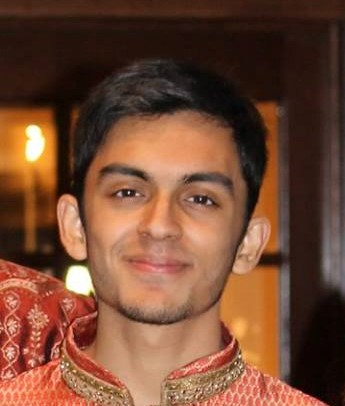
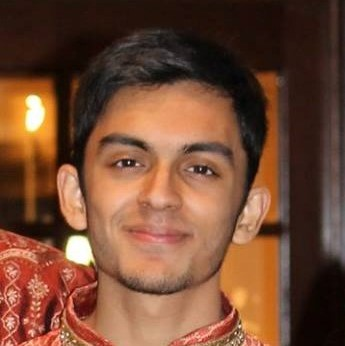
Unformatted images

diff --git a/src/components/Leadership.js b/src/components/Leadership.js
@@ -28,24 +28,35 @@ const Leadership = () => {
                 </Grid>
                 <Grid container direction="row">
                     <Grid item xs>
-                        
+                        <Portrait file="abhay.jpg"/>
                     </Grid>
                     <Grid item xs>
-                        
+                        <Portrait file="dane.png"/>
                     </Grid>
                     <Grid item xs>
-                        
+                        <Portrait file="dandi.png"/>
                     </Grid>   
                 </Grid>
                 <Grid container direction="row">
                     <Grid item xs>
-                        
+                        <Portrait file="eric.jpg"/>
                     </Grid>
                     <Grid item xs>
-                        
+                        <Portrait file="jinman.jpg"/>
                     </Grid>
                     <Grid item xs>
-                        
+                        <Portrait file="keshav.png"/>
+                    </Grid>   
+                </Grid>
+                <Grid container direction="row">
+                    <Grid item xs>
+                        <Portrait file="nick.jpg"/>
+                    </Grid>
+                    <Grid item xs>
+                        <Portrait file="rakshith.jpg"/>
+                    </Grid>
+                    <Grid item xs>
+                        <Portrait file="richard.jpg"/>
                     </Grid>   
                 </Grid>
             </Grid>

diff --git a/src/components/display/Portrait.js b/src/components/display/Portrait.js
@@ -4,9 +4,11 @@ const Portrait = ({file}) => {
 
     return (
         <>
-            <img src="">
-
-            </img>
+            <img
+                src={`${process.env.PUBLIC_URL}/images/portraits/${file}`}
+                width={300}
+                height={300}
+            />
         </>
     )
 };
